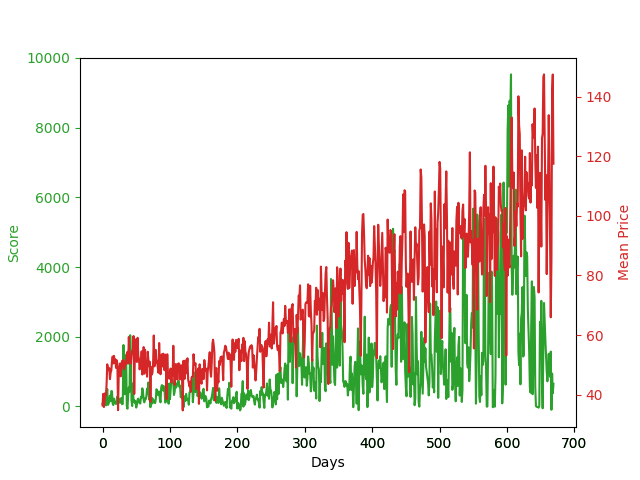
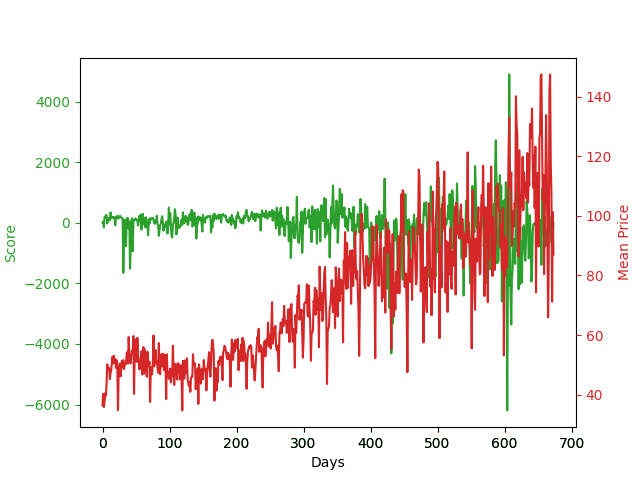
Fully working no more warnings and can include more days

diff --git a/homeenv.py b/homeenv.py
@@ -4,9 +4,6 @@ import re
 import numpy as np
 import torch
 
-#file = open('2008till2022-10-15.json')
-file = open('2021till2022nov.json')
-data = json.load(file)
 
 
 kilohour_to_sec = 1/60/60/1000
@@ -20,7 +17,7 @@ class Home_Enviroment():
         self.day_index = 0 #Day index for giving rewards
         self.home_charge = 0 #Home charge in AmpereHours
         self.solar_effect = 10 #Current Solar Effect in Watt
-        self.load = 2 #Watt Load from house usage
+        self.load = 1 #Watt Load from house usage
         self.total_sold_price = 0
         self.total_bought_price = 0
         self.max_charge = 25200*0.95 #max charge in Ampere Seconds
@@ -93,7 +90,7 @@ class Home_Enviroment():
 
         #if day is between 22-08 solar power is 1watt
         if not self.options['forced_solar']:
-            if self.time >= (79200 + 86400*(self.day_index-1)) or self.time <= (28800 + 86400*(self.day_index-1)): 
+            if self.time >= (79200 + 86400*(self.day_index)) or self.time <= (28800 + 86400*(self.day_index)): 
                 self.solar_effect = 1
                 self.solar_charge_rate_temp = self.watt_to_ampere(self.solar_effect)
             else:
@@ -149,7 +146,7 @@ class Home_Enviroment():
 
         if not self.options['forced_solar']:
             #if day is between 22-08 in one hour change power
-            if self.time+self.step_period >= (79200 + 86400*(self.day_index-1)) or self.time+self.step_period <= (28800 + 86400*(self.day_index-1)): 
+            if self.time+self.step_period >= (79200 + 86400*(self.day_index)) or self.time+self.step_period <= (28800 + 86400*(self.day_index)): 
                 self.solar_effect = 1
                 self.solar_charge_rate_temp = self.watt_to_ampere(self.solar_effect)
             else:
@@ -166,13 +163,14 @@ class Home_Enviroment():
             day_arr.append(self.data[int(i+(self.time/3600))]['Value'])
         for i in range(3):
             state.append(self.data[int(i+(self.time/3600))]['Value'])
-        self.avg_sold_price = np.mean(self.sold_prices[-24*7:]) #Gets average sold price at last 24 sold prices
+        if self.sold_prices != []:
+            self.avg_sold_price = np.mean(self.sold_prices[-24*7:]) #Gets average sold price at last 24 sold prices
         self.avg_price_day = np.mean(day_arr, dtype=np.float32)
         state.append(100/(self.max_charge/(self.home_charge+1)))
         #state.append(self.data[int(self.time/3600)]['Value'])
         #state.append(self.home_charge)
         #state.append(self.max_charge)
-        #state.append(self.solar_effect)
+        state.append(self.solar_effect)
 
         #state.append(self.data[int(self.time/3600)]['Value'])
         #state.append(self.load)
@@ -185,7 +183,7 @@ class Home_Enviroment():
 
     def step(self, choice):
         done = 0
-        dayarr = re.findall(r'\d',data[self.day_index]['TimeStampDay'])
+        dayarr = re.findall(r'\d',self.data[self.day_index]['TimeStampDay'])
         day = int(dayarr[6])*10 + int(dayarr[7])
         initial_date = day
         if day == initial_date:
@@ -193,10 +191,14 @@ class Home_Enviroment():
         if self.time >= 86400*(self.day_index+1): #If going to next day
             done = 1
         
+        if self.day_index > (len(self.data)/24) - 2: #Returns if the max day is reached which as of current is day length -1 (0 is included)
+            return 0, 0, 0
+        
         state = []
         day_arr = []
-        #print(self.day_index)
-        #print(self.data[int((self.time/3600))]['TimeStamp'])
+        #if (self.day_index > 674):
+        #    print(self.day_index+1)
+        #    print(self.data[int(23+(self.time/3600))]['TimeStamp'])
         for i in range(24):
             day_arr.append(self.data[int(i+(self.time/3600))]['Value'])
         for i in range(3):
@@ -208,6 +210,7 @@ class Home_Enviroment():
 
         self.avg_price_day = np.mean(day_arr, dtype=np.float32) #Gets average price of next 24 
         state.append(self.home_charge/3600)
+        state.append(self.solar_effect)#Remove if model2
 
         #If Sold
         if self.bought_at_price == 0:
@@ -236,6 +239,10 @@ class Home_Enviroment():
         return state, reward, done
 
 if __name__ == "__main__":
+    #file = open('2008till2022-10-15.json')
+    file = open('2021till2022nov.json')
+    data = json.load(file)
+
     print(type(data))
     print(data[0])
     print(data[0]['TimeStampHour'])

diff --git a/main.py b/main.py
@@ -57,9 +57,11 @@ def plot_env_score(x, score, filename, should_show, lines=None):
 
     arr_mean_price = []
     temp = []
-    for i in range(len(x)):
+    for i in range(len(x)): #Average price of electricity
         for j in range(24):
             temp.append(data[j*(i+1)]['Value'])
+        if(temp[0])== 0:
+            arr_mean_price.append(0)
         arr_mean_price.append(np.mean(temp))
         temp = []
     
@@ -252,7 +254,7 @@ class Agent():
 def deep_q_agent(days, step_period, show, data, save, save_path, load, load_path):
     env = Home_Enviroment(step_period,data)
     agent = Agent(gamma=0.99, epsilon=0.01, batch_size=32, n_actions=2, 
-                eps_end=0.001, eps_dec=5e-6, input_dims=[4], lr=0.001,
+                eps_end=0.001, eps_dec=5e-6, input_dims=[5], lr=0.001,
                 load_path=load_path, load=load)
     scores, eps_history = [],[]
     action_count = [0,0,0]
@@ -269,7 +271,7 @@ def deep_q_agent(days, step_period, show, data, save, save_path, load, load_path
             action_count[action] += 1
             #print(str(observation[0]) + ' ' + str(action))
             agent.store_transition(observation, action, reward, observation_, done)
-            agent.learn()
+            #agent.learn()
             observation = observation_
         scores.append(score)
         eps_history.append(agent.epsilon)
@@ -288,7 +290,7 @@ def deep_q_agent(days, step_period, show, data, save, save_path, load, load_path
     
     mean_scores = []
     for i in range (len(scores)):
-        mean_scores.append(np.mean(scores[-5:i]))
+        mean_scores.append(np.mean(scores[(-5*i):]))
 
     plot_env(x,env.charge_at_time,(env.exchange),filename,should_show=show)
     plot_env_score(x, scores, 'agent_score.png',should_show=show)
@@ -302,18 +304,29 @@ def deep_q_agent(days, step_period, show, data, save, save_path, load, load_path
 if __name__ == "__main__":
     start_time = time.time()
 
-    #file = open('2008till2022-10-15.json')
-    file = open('2021till2022nov.json')
+    train = False #Train if true or Test if false
+    override = False #If want custom data / days
+
+    if train:
+        file = open('2008till2022-10-15.json')
+        days = 4000
+    elif not train:
+        file = open('2021till2022nov.json')
+        days = 674
+    if override:# Custom stuff here
+        days = 5
 
     data = json.load(file)
-    
-    save = False
-    load = True
-    save_path = "Q_Eval_Days4k_Info3h_Step10min2.pth"
-    load_path = "Q_Eval_Days4k_Info3h_Step10min2.pth"
 
-    days = 670
+    save = False
+    load = False
+    save_path = "Q_Eval_Days4k_Info3h_Step10min3.pth"
+    load_path = "Q_Eval_Days4k_Info3h_Step10min3.pth"
+
     step = 60*60
+
+    print("\n-----------------------------------------------------------------------------------------------\n")
+    print(f'Days in data: {int((len(data)/24) -1)}')#Prints amount of days in data given
     print("\n-----------------------------------------------------------------------------------------------\n")
     if_step_sell(days, step, False, data)
     print("\n-----------------------------------------------------------------------------------------------\n")
